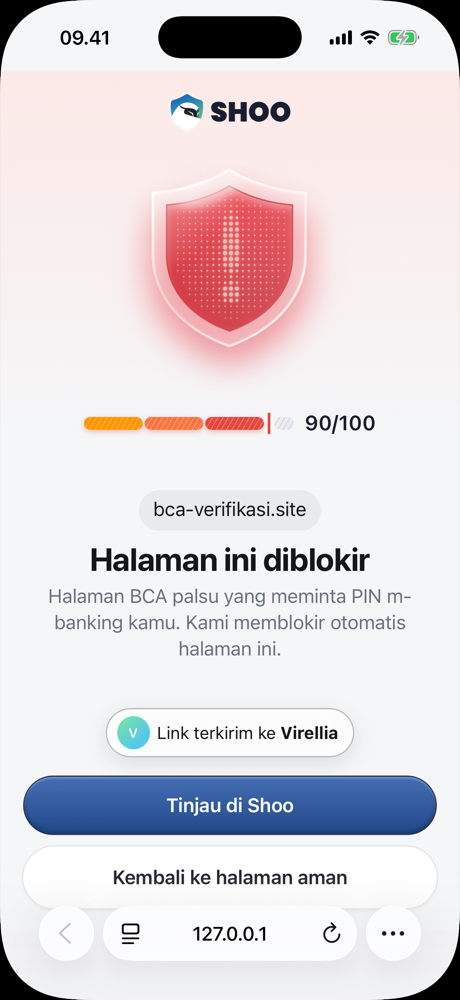
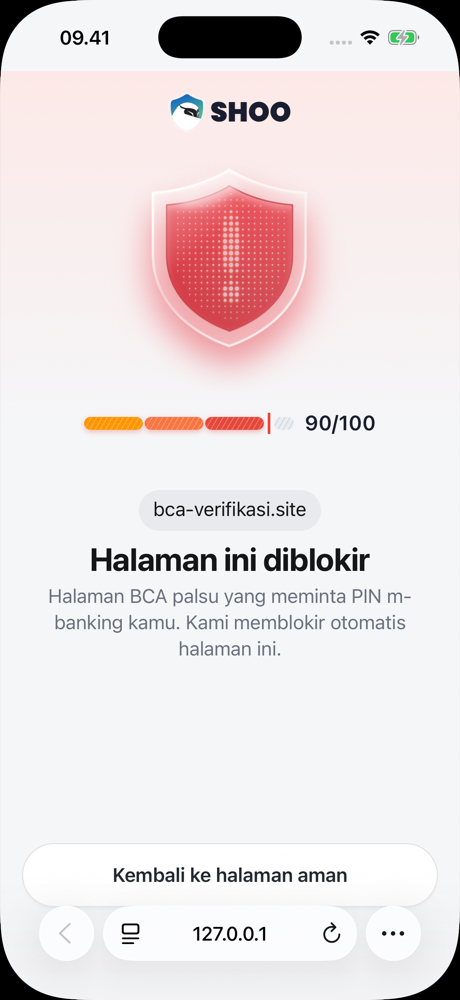
fix(EX-06): Protected block screen follows Figma
Protected gets no "Tinjau di Shoo" button and no "Link terkirim ke …"
pill (Figma "Safari / Blocked / Protected"); only "Kembali ke halaman
aman" stays. Guardian keeps "Tinjau di Shoo". The pill is gone from the
block screen for every mode; the warning sheet keeps it.

Changed region(s): [[0.0304, 0.713, 0.9435, 0.837], [0.2435, 0.868, 0.7609, 0.899], [0.7304, 0.031, 0.7609, 0.062]]

diff --git a/ios/ShooExtension/Resources/blocked-page.js b/ios/ShooExtension/Resources/blocked-page.js
@@ -1,7 +1,7 @@
 // Owner: lead. Block screen behaviour (EX-06), runs inside blocked.html.
-// Protected: "Link sent to [guardian]" once the scan is reported (EX-07); reopens by itself once the domain
-// is marked safe. Guardian and Protected: "Review in Shoo" → Detail (reviewing, not deciding: PRD 8.2);
-// a Guardian's page also reopens after marking it safe for themselves (PRD §5 Validasi).
+// Protected (Figma "Safari / Blocked / Protected"): no button, no "Link sent to" pill; reopens by itself once the
+// domain is marked safe. Guardian: "Review in Shoo" → Detail (reviewing, not deciding: PRD 8.2); its page also
+// reopens after marking it safe for themselves (PRD §5 Validasi).
 
 (() => {
     // #350 (contracts/api.md): fast while a Guardian is most likely deciding, slower once it's been a while.
@@ -33,12 +33,14 @@
                       .filter(Boolean),
             chip: middleEllipsis(payload.domain || payload.url),
             lookalike,
-            sentTo: mode === "protected" ? profile.guardianName || null : null,
             autoNote: simple, // Figma "Safari / Blocked / Protected": "We blocked this page automatically."
+            // Figma: Protected only goes back to a safe page; the Guardian decides in the app.
             button:
                 mode === null
                     ? { textKey: "block_open_app", href: "shoo://activity" }
-                    : { textKey: "block_review", href: detailUrl(payload) },
+                    : mode === "protected"
+                      ? null
+                      : { textKey: "block_review", href: detailUrl(payload) },
             poll: mode !== null,
         };
     }
@@ -166,30 +168,20 @@
     }
 
     // EX-07: the POST may still be running when this page opens. Asked again on every poll until it exists.
-    let recordAnswered = false; // asked background at least once with an answer (it also carries `notified`, #377)
+    let recordAnswered = false; // asked background at least once with an answer
     async function findRecord() {
-        if ((recordId && recordAnswered) || !payload.reportKey || mode === null) return;
+        if ((recordId && recordAnswered) || !payload.reportKey || !view?.button || mode === null) return;
         const reply = await send({ type: "recordId", key: payload.reportKey }).catch(() => null);
         if (!reply?.recordId) return;
         recordAnswered = true;
         recordId = reply.recordId;
-        // #377: the backend says who it really pushed (null = nobody). Older backends say nothing: keep the name.
-        if (view && "notified" in reply) view.sentTo = mode === "protected" ? reply.notified || null : null;
         showRecord();
     }
 
-    /** Once the scan is stored: "Review in Shoo" opens it, and Protected sees who it went to. */
+    /** Once the scan is stored: "Review in Shoo" opens it. */
     function showRecord() {
-        if (!recordId || !view) return;
-        if (view.button && mode !== null) $(".button").href = detailUrl({ recordId });
-        if (!view.sentTo) {
-            $(".sent").hidden = true; // #377: the backend said nobody got it
-            return;
-        }
-        $(".avatar").textContent = Array.from(view.sentTo)[0].toUpperCase();
-        const [before = "", after = ""] = t("popup_sent_to", ["\u0000"]).split("\u0000");
-        $(".sent-text").replaceChildren(before, Object.assign(document.createElement("b"), { textContent: view.sentTo }), after);
-        $(".sent").hidden = false;
+        if (!recordId || !view?.button || mode === null) return;
+        $(".button").href = detailUrl({ recordId });
     }
 
     let timer = null;

diff --git a/ios/ShooExtension/Resources/blocked.css b/ios/ShooExtension/Resources/blocked.css
@@ -44,18 +44,6 @@ h1 { margin: 0; font-size: 28px; font-weight: 700; line-height: 34px; letter-spa
 .reasons { max-width: 322px; margin: -4px 0 0; font-size: 17px; line-height: 1.4; color: var(--muted); }
 .verified { margin: 0; font-weight: 600; color: var(--danger); }
 
-.bottom { display: flex; flex-direction: column; align-items: center; gap: 16px; width: 100%; }
-.sent { display: inline-flex; align-items: center; gap: 6px; max-width: 100%; padding: 6px 13px 6px 9px;
-        border-radius: 999px; border: 1px solid rgba(171,171,171,.9); background: rgba(255,255,255,.7);
-        -webkit-backdrop-filter: blur(14px); backdrop-filter: blur(14px);
-        box-shadow: 0 6px 18px rgba(31,42,55,.12); font-size: 15px; line-height: normal; white-space: nowrap; }
-.sent-text { overflow: hidden; text-overflow: ellipsis; }
-.sent b { font-weight: 700; }
-.avatar { flex: none; width: 28.97px; height: 28.97px; border-radius: 50%;
-          background: linear-gradient(135deg, #7de49c 0%, #54cae8 71.43%); color: #fff;
-          display: flex; align-items: center; justify-content: center; font-size: 11.85px; font-weight: 600;
-          font-family: ui-rounded, "SF Pro Rounded", -apple-system, BlinkMacSystemFont, sans-serif; }
-
 .actions { display: flex; flex-direction: column; gap: 10px; width: 100%; }
 .button, .back { display: flex; align-items: center; justify-content: center; width: 100%; border-radius: 999px;
                  font: 600 17px/22px -apple-system, BlinkMacSystemFont, sans-serif; text-decoration: none;

diff --git a/ios/ShooExtension/Resources/blocked.html b/ios/ShooExtension/Resources/blocked.html
@@ -32,16 +32,9 @@
             </div>
         </div>
 
-        <div class="bottom">
-            <div class="sent" hidden>
-                <span class="avatar" aria-hidden="true"></span>
-                <span class="sent-text"></span>
-            </div>
-
-            <div class="actions">
-                <a class="button" hidden></a>
-                <button class="back" type="button" data-text="back"></button>
-            </div>
+        <div class="actions">
+            <a class="button" hidden></a>
+            <button class="back" type="button" data-text="back"></button>
         </div>
     </main>
     <script src="gauge.js"></script>
